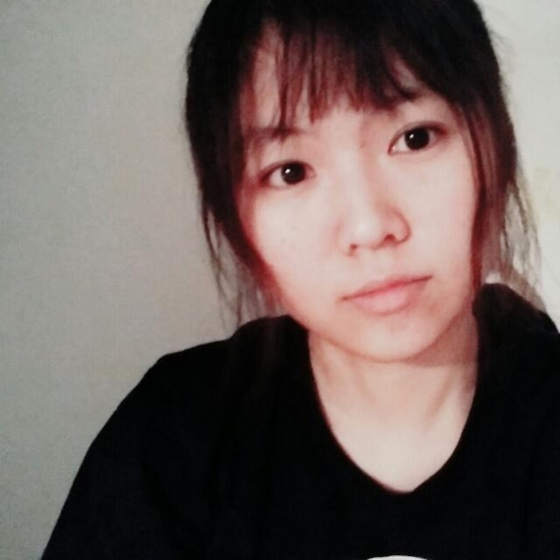
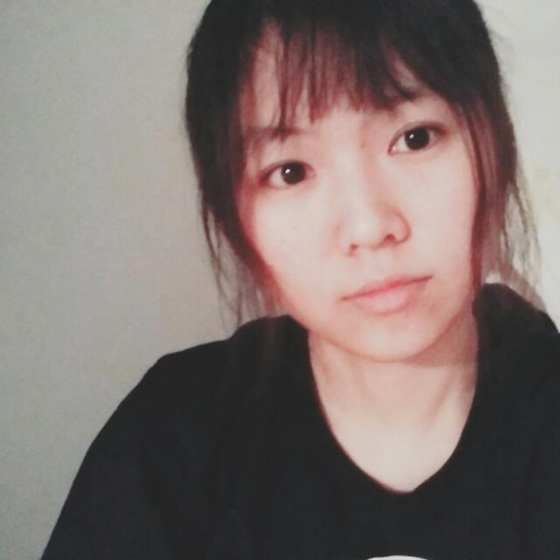
Match the three team photos on brightness and contrast
They were shot in three different situations -- a flat studio backdrop, an
indoor grey wall, an outdoor rooftop -- and in a row of 76px circles the
brightness gap was what the eye caught: mean luminance ran 101 to 138, and
Lisha's contrast was 76 against the others' ~53.

Measured over the circular crop only (what the avatar actually shows), then
corrected per photo: luminance matched outright, contrast pulled 75% of the way
to a shared target. Spread drops from 36.5 to 0.3 on luminance and 24.1 to 6.3
on contrast.

Saturation is deliberately left near as-shot. The obvious metric,
(max-min)/max, is dominated by background rather than skin here -- a grey wall
reads as low saturation, a blue sky as high -- so matching it would have pushed
Lisha's skin to roughly twice its chroma to compensate for her wall. The factor
is clamped to [0.88, 1.12] instead, and all three were checked by eye.

Done with a small pure-Python PNG codec: no image library is installed here and
sips cannot adjust colour.

diff --git a/index.html b/index.html
@@ -244,7 +244,7 @@
           <div class="team-grid">
             <article class="team-card" data-od-id="team-card-mengwen">
               <div class="team-photo">
-                <img decoding="async" loading="lazy" width="560" height="560" src="assets/team-mengwen-photo.jpg" alt="Mengwen Yu">
+                <img decoding="async" loading="lazy" width="560" height="560" src="assets/team-mengwen-photo.jpg?v=graded" alt="Mengwen Yu">
               </div>
               <div class="team-info">
                 <div>
@@ -261,7 +261,7 @@
             </article>
             <article class="team-card" data-od-id="team-card-lisha">
               <div class="team-photo">
-                <img decoding="async" loading="lazy" width="560" height="560" src="assets/team-lisha-photo.jpg" alt="Lisha Chen">
+                <img decoding="async" loading="lazy" width="560" height="560" src="assets/team-lisha-photo.jpg?v=graded" alt="Lisha Chen">
               </div>
               <div class="team-info">
                 <div>
@@ -273,7 +273,7 @@
             </article>
             <article class="team-card" data-od-id="team-card-yichun">
               <div class="team-photo">
-                <img decoding="async" loading="lazy" width="560" height="560" src="assets/team-yichun-photo.jpg" alt="Yichun Liu">
+                <img decoding="async" loading="lazy" width="560" height="560" src="assets/team-yichun-photo.jpg?v=graded" alt="Yichun Liu">
               </div>
               <div class="team-info">
                 <div>
@@ -305,7 +305,7 @@
             <div class="bio-dialog-inner">
               <button type="button" class="bio-dialog-close" data-bio-close aria-label="Close biography">×</button>
               <div class="bio-dialog-head">
-                <img src="assets/team-mengwen-photo.jpg" alt="" width="560" height="560">
+                <img src="assets/team-mengwen-photo.jpg?v=graded" alt="" width="560" height="560">
                 <div>
                   <h3 id="bio-mengwen-name">Mengwen Yu</h3>
                   <p class="bio-dialog-role">Visual Designer</p>
@@ -329,7 +329,7 @@
             <div class="bio-dialog-inner">
               <button type="button" class="bio-dialog-close" data-bio-close aria-label="Close biography">×</button>
               <div class="bio-dialog-head">
-                <img src="assets/team-yichun-photo.jpg" alt="" width="560" height="560">
+                <img src="assets/team-yichun-photo.jpg?v=graded" alt="" width="560" height="560">
                 <div>
                   <h3 id="bio-yichun-name">Yichun Liu</h3>
                   <p class="bio-dialog-role">Design Lead</p>
